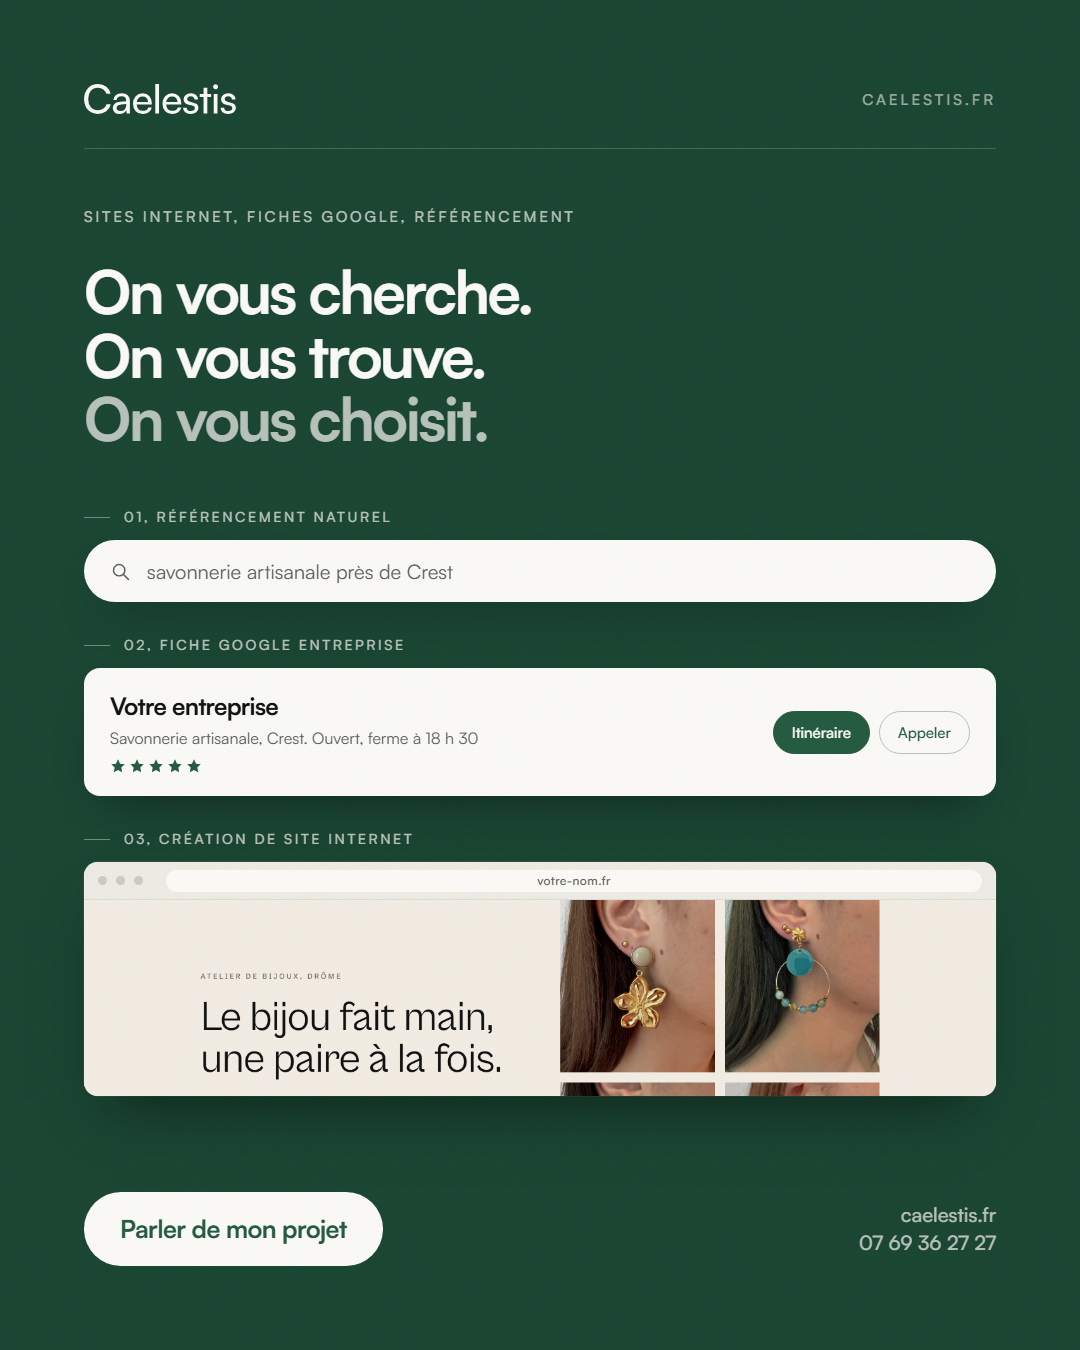
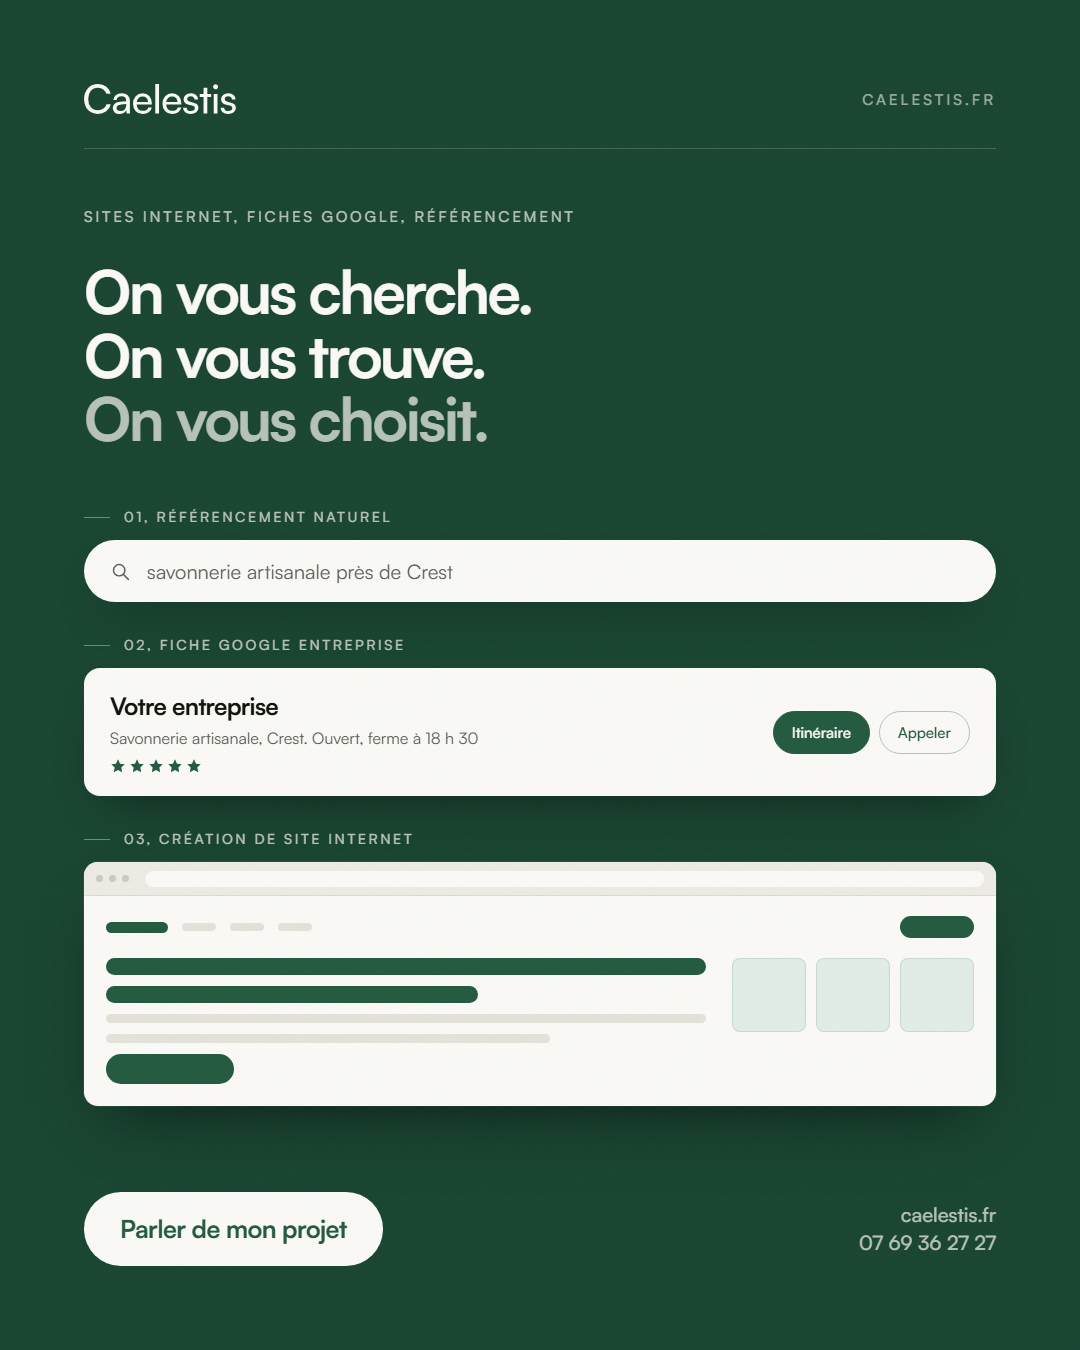
refactor: les affiches d'offre n'utilisent plus aucune capture
Les pages, fiches et resultats de recherche sont desormais dessines
avec des blocs de la charte (.maquette, .mod-fiche, .mod-serp dans
pub.css). Aucun site client n'est mis en avant, et le visuel ne
vieillit plus quand un site change.

Changed region(s): [[0.0611, 0.6533, 0.9167, 0.84]]

diff --git a/identite/reseaux/instagram/publicites/offre-3-signature.html b/identite/reseaux/instagram/publicites/offre-3-signature.html
@@ -6,36 +6,64 @@
 <link rel="stylesheet" href="pub.css">
 <style>
   .o3 { background: var(--vert-profond); }
-  .o3 h1 { font-size: 66px; }
-  .o3 .sous { margin-top: 26px; font-size: 23px; }
+  .o3 h1 { font-size: 64px; }
+  .o3 .sous { margin-top: 24px; font-size: 23px; }
 
-  .o3 .services {
-    position: absolute; top: 604px; left: var(--marge); right: var(--marge); z-index: 7;
-    display: flex; flex-wrap: wrap; gap: 12px;
+  /* trois cartes de service, chacune avec son module dessiné */
+  .o3 .cartes {
+    position: absolute; top: 594px; left: var(--marge); right: var(--marge); z-index: 6;
+    display: grid; grid-template-columns: repeat(3, 1fr); gap: 24px;
   }
-  .o3 .services span {
-    display: inline-flex; align-items: center; gap: 11px;
-    font-size: 19px; font-weight: 500; color: var(--vert);
-    background: var(--creme); border-radius: 30px; padding: 14px 24px;
-    box-shadow: 0 20px 40px -22px rgba(0, 0, 0, .5);
+  .o3 .carte-s {
+    background: var(--creme); border-radius: 20px; padding: 22px 22px 24px;
+    box-shadow: 0 36px 68px -26px rgba(0, 0, 0, .55);
+    display: flex; flex-direction: column;
   }
-  .o3 .services span i { width: 8px; height: 8px; border-radius: 50%; background: var(--vert); display: block; flex: none; }
+  .o3 .carte-s .num {
+    font-size: 12px; font-weight: 500; letter-spacing: .18em; text-transform: uppercase; color: var(--sauge-texte);
+  }
+  .o3 .carte-s .t { margin-top: 10px; font-size: 24px; font-weight: 700; letter-spacing: -0.03em; color: var(--encre); line-height: 1.15; }
+  .o3 .carte-s .d { margin-top: 8px; font-size: 15px; line-height: 1.45; color: var(--olive); }
+  .o3 .carte-s .module { margin-top: 18px; }
+  .o3 .carte-s .prix {
+    margin-top: auto; padding-top: 18px; border-top: 1px solid var(--creme-fonce);
+    font-size: 19px; font-weight: 700; letter-spacing: -0.02em; color: var(--vert);
+  }
 
-  .o3 .fenetre {
-    top: 762px; left: 118px; width: 1044px;
-    box-shadow: 0 50px 96px -26px rgba(0, 0, 0, .62), 0 0 0 1px rgba(252, 251, 248, .07);
-  }
-  .o3 .fenetre .cadre { height: 560px; overflow: hidden; }
-  .o3 .fenetre .cadre img { display: block; width: 100%; margin-top: -46px; }
+  /* module 2, la fiche */
+  .o3 .mod-fiche { background: var(--sauge-pale); border-radius: 12px; padding: 14px; }
+  .o3 .mod-fiche .nom { height: 12px; width: 66%; border-radius: 6px; background: var(--vert); }
+  .o3 .mod-fiche .ligne { height: 8px; width: 84%; border-radius: 4px; background: rgba(37, 92, 65, .22); margin-top: 9px; }
+  .o3 .mod-fiche .etoiles { display: flex; gap: 3px; margin-top: 12px; }
+  .o3 .mod-fiche .etoiles svg { width: 14px; height: 14px; fill: var(--vert); }
+  .o3 .mod-fiche .boutons { display: flex; gap: 6px; margin-top: 13px; }
+  .o3 .mod-fiche .boutons b { width: 58px; height: 22px; border-radius: 11px; background: var(--vert); display: block; }
+  .o3 .mod-fiche .boutons u { width: 46px; height: 22px; border-radius: 11px; border: 1px solid var(--sauge); display: block; }
 
-  /* carte verte : sur une capture de site crème, une carte crème se fondrait */
+  /* module 3, la recherche */
+  .o3 .mod-serp { background: var(--sauge-pale); border-radius: 12px; padding: 14px; }
+  .o3 .mod-serp .champ {
+    height: 30px; border-radius: 15px; background: var(--creme); border: 1px solid var(--sauge);
+    display: flex; align-items: center; gap: 8px; padding: 0 12px;
+  }
+  .o3 .mod-serp .champ svg { width: 13px; height: 13px; stroke: var(--olive); stroke-width: 1.8; fill: none; stroke-linecap: round; flex: none; }
+  .o3 .mod-serp .champ i { height: 7px; width: 62%; border-radius: 4px; background: var(--creme-fonce); display: block; }
+  .o3 .mod-serp .gagnant { margin-top: 12px; background: var(--creme); border-left: 3px solid var(--vert); border-radius: 0 8px 8px 0; padding: 10px 12px; }
+  .o3 .mod-serp .gagnant b { height: 10px; width: 74%; border-radius: 5px; background: var(--vert); display: block; }
+  .o3 .mod-serp .gagnant u { height: 7px; width: 90%; border-radius: 4px; background: var(--creme-fonce); display: block; margin-top: 7px; }
+  .o3 .mod-serp .autre { height: 7px; border-radius: 4px; background: rgba(37, 92, 65, .18); margin-top: 10px; }
+  .o3 .mod-serp .autre.court { width: 62%; }
+
   .o3 .appel {
-    position: absolute; bottom: 84px; left: var(--marge); z-index: 9;
-    background: var(--vert); border-radius: 20px; padding: 26px 32px;
-    box-shadow: 0 40px 74px -20px rgba(0, 0, 0, .7);
+    position: absolute; bottom: 88px; left: var(--marge); right: var(--marge); z-index: 8;
+    display: flex; align-items: center; justify-content: space-between; gap: 26px;
   }
-  .o3 .appel .t { font-size: 30px; font-weight: 700; letter-spacing: -0.028em; color: var(--creme); }
-  .o3 .appel .d { margin-top: 9px; font-size: 19px; font-weight: 500; color: var(--sauge); line-height: 1.45; }
+  .o3 .appel .bouton {
+    background: var(--creme); color: var(--vert); white-space: nowrap;
+    font-size: 27px; font-weight: 700; letter-spacing: -0.026em;
+    padding: 21px 38px; border-radius: 46px;
+  }
+  .o3 .appel .note { font-size: 20px; font-weight: 500; color: var(--sauge); text-align: right; line-height: 1.45; }
 </style>
 </head>
 <body>
@@ -53,23 +81,74 @@
     <p class="sous">Votre site, votre fiche Google, votre place dans les recherches.</p>
   </div>
 
-  <div class="services">
-    <span><i></i>Site internet</span>
-    <span><i></i>Fiche Google</span>
-    <span><i></i>Référencement naturel</span>
-  </div>
+  <div class="cartes">
 
-  <div class="fenetre">
-    <div class="barre">
-      <span class="pastille"></span><span class="pastille"></span><span class="pastille"></span>
-      <span class="url">lacoquette-bycaro.fr</span>
+    <div class="carte-s">
+      <p class="num">01</p>
+      <p class="t">Site internet</p>
+      <p class="d">Une page ou un site complet, écrit pour votre métier.</p>
+      <div class="module">
+        <div class="maquette mini" role="img" aria-label="Aperçu d'une page de site">
+          <div class="mq-barre"><i></i><i></i><i></i><span></span></div>
+          <div class="mq-corps">
+            <div class="mq-titre"></div>
+            <div class="mq-titre court"></div>
+            <div class="mq-texte"></div>
+            <div class="mq-bouton"></div>
+            <div class="mq-vignettes">
+              <div class="mq-vignette"></div>
+              <div class="mq-vignette"></div>
+            </div>
+          </div>
+        </div>
+      </div>
+      <p class="prix">dès 1 000&nbsp;€</p>
     </div>
-    <div class="cadre"><img src="../captures/client-la-coquette-desktop.png" alt="Un site livré par Caelestis"></div>
+
+    <div class="carte-s">
+      <p class="num">02</p>
+      <p class="t">Fiche Google</p>
+      <p class="d">Photos, horaires, avis. Ce qu'on voit avant votre site.</p>
+      <div class="module">
+        <div class="mod-fiche" role="img" aria-label="Aperçu d'une fiche d'établissement">
+          <div class="nom"></div>
+          <div class="ligne"></div>
+          <div class="etoiles">
+            <svg viewBox="0 0 24 24"><path d="M12 2l3 6.6 7 .9-5 4.8 1.2 7L12 18l-6.2 3.3L7 14.3 2 9.5l7-.9z"/></svg>
+            <svg viewBox="0 0 24 24"><path d="M12 2l3 6.6 7 .9-5 4.8 1.2 7L12 18l-6.2 3.3L7 14.3 2 9.5l7-.9z"/></svg>
+            <svg viewBox="0 0 24 24"><path d="M12 2l3 6.6 7 .9-5 4.8 1.2 7L12 18l-6.2 3.3L7 14.3 2 9.5l7-.9z"/></svg>
+            <svg viewBox="0 0 24 24"><path d="M12 2l3 6.6 7 .9-5 4.8 1.2 7L12 18l-6.2 3.3L7 14.3 2 9.5l7-.9z"/></svg>
+            <svg viewBox="0 0 24 24"><path d="M12 2l3 6.6 7 .9-5 4.8 1.2 7L12 18l-6.2 3.3L7 14.3 2 9.5l7-.9z"/></svg>
+          </div>
+          <div class="boutons"><b></b><u></u></div>
+        </div>
+      </div>
+      <p class="prix">300&nbsp;€</p>
+    </div>
+
+    <div class="carte-s">
+      <p class="num">03</p>
+      <p class="t">Référencement</p>
+      <p class="d">Remonter dans Google, sans payer de publicité.</p>
+      <div class="module">
+        <div class="mod-serp" role="img" aria-label="Aperçu d'une page de résultats">
+          <div class="champ">
+            <svg viewBox="0 0 24 24"><circle cx="10.5" cy="10.5" r="6.5"/><path d="M15.4 15.4L21 21"/></svg>
+            <i></i>
+          </div>
+          <div class="gagnant"><b></b><u></u></div>
+          <div class="autre"></div>
+          <div class="autre court"></div>
+        </div>
+      </div>
+      <p class="prix">compris</p>
+    </div>
+
   </div>
 
   <div class="appel">
-    <p class="t">07 69 36 27 27</p>
-    <p class="d">caelestis.fr<br>Devis gratuit, réponse sous 48&nbsp;h</p>
+    <span class="bouton">07 69 36 27 27</span>
+    <span class="note">caelestis.fr<br>Devis gratuit, réponse sous 48&nbsp;h</span>
   </div>
 
 </div>

diff --git a/identite/reseaux/instagram/publicites/pub.css b/identite/reseaux/instagram/publicites/pub.css
@@ -38,6 +38,43 @@
 }
 .badge .point { width: 9px; height: 9px; border-radius: 50%; background: var(--vert); flex: none; }
 
+/* ---------- maquette de site dessinée ----------
+   Aucune capture d'écran : la page est évoquée par des blocs, dans la charte.
+   .large pour un module pleine largeur, .mini pour une carte de service. */
+.maquette { background: var(--creme); border-radius: 14px; overflow: hidden; }
+.maquette .mq-barre {
+  height: 34px; background: #EFEDE6; border-bottom: 1px solid rgba(18, 22, 15, .08);
+  display: flex; align-items: center; gap: 6px; padding: 0 12px;
+}
+.maquette .mq-barre i { width: 7px; height: 7px; border-radius: 50%; background: #CFCCC2; display: block; }
+.maquette .mq-barre span { flex: 1; height: 16px; border-radius: 8px; background: var(--creme); margin-left: 10px; }
+
+.maquette .mq-nav { display: flex; align-items: center; gap: 14px; }
+.maquette .mq-nav b { width: 62px; height: 11px; border-radius: 6px; background: var(--vert); display: block; }
+.maquette .mq-nav u { width: 34px; height: 8px; border-radius: 4px; background: var(--creme-fonce); display: block; }
+.maquette .mq-nav u:last-child { margin-left: auto; width: 74px; height: 22px; border-radius: 11px; background: var(--vert); }
+
+.maquette .mq-titre { height: 17px; border-radius: 9px; background: var(--vert); }
+.maquette .mq-titre.court { width: 62%; }
+.maquette .mq-texte { height: 9px; border-radius: 5px; background: var(--creme-fonce); }
+.maquette .mq-texte.court { width: 74%; }
+.maquette .mq-bouton { width: 128px; height: 30px; border-radius: 15px; background: var(--vert); }
+.maquette .mq-vignette { border-radius: 8px; background: var(--sauge-pale); border: 1px solid rgba(37, 92, 65, .12); }
+
+/* pleine largeur : nav en haut, texte à gauche, vignettes à droite */
+.maquette.large .mq-corps { padding: 20px 22px 22px; }
+.maquette.large .mq-bas { display: flex; gap: 26px; margin-top: 20px; }
+.maquette.large .mq-texte-col { flex: 1; display: flex; flex-direction: column; gap: 11px; }
+.maquette.large .mq-vignettes { display: flex; gap: 10px; flex: none; }
+.maquette.large .mq-vignette { width: 74px; height: 74px; }
+
+/* compacte : tout empilé */
+.maquette.mini .mq-corps { padding: 14px 14px 16px; display: flex; flex-direction: column; gap: 9px; }
+.maquette.mini .mq-titre { height: 13px; }
+.maquette.mini .mq-bouton { width: 84px; height: 22px; border-radius: 11px; margin-top: 3px; }
+.maquette.mini .mq-vignettes { display: grid; grid-template-columns: 1fr 1fr; gap: 7px; margin-top: 4px; }
+.maquette.mini .mq-vignette { height: 42px; }
+
 /* ---------- photo de fond couverte d'un voile ---------- */
 .fond-photo { position: absolute; inset: 0; z-index: 0; overflow: hidden; }
 .fond-photo img { width: 100%; height: 100%; object-fit: cover; display: block; }

diff --git a/identite/reseaux/instagram/publicites/offre-1-parcours.html b/identite/reseaux/instagram/publicites/offre-1-parcours.html
@@ -44,16 +44,8 @@
   }
   .o1 .fiche .boutons span.plein { background: var(--vert); color: var(--creme); border-color: var(--vert); }
 
-  /* 03, le site */
-  .o1 .fenetre {
-    position: relative; top: auto; left: auto; width: 100%;
-    box-shadow: 0 30px 58px -26px rgba(0, 0, 0, .55), 0 0 0 1px rgba(252, 251, 248, .07);
-  }
-  .o1 .fenetre .barre { height: 38px; padding: 0 14px; }
-  .o1 .fenetre .pastille { width: 9px; height: 9px; }
-  .o1 .fenetre .url { height: 22px; font-size: 12px; }
-  .o1 .fenetre .cadre { height: 196px; overflow: hidden; }
-  .o1 .fenetre .cadre img { display: block; width: 100%; margin-top: -112px; }
+  /* 03, le site, dessiné et non capturé */
+  .o1 .maquette { box-shadow: 0 30px 58px -26px rgba(0, 0, 0, .55), 0 0 0 1px rgba(252, 251, 248, .07); }
 </style>
 </head>
 <body>
@@ -100,12 +92,25 @@
 
     <div class="etape">
       <p class="lab"><i></i>03, Création de site internet</p>
-      <div class="fenetre">
-        <div class="barre">
-          <span class="pastille"></span><span class="pastille"></span><span class="pastille"></span>
-          <span class="url">votre-nom.fr</span>
+      <div class="maquette large" role="img" aria-label="Aperçu d'une page de site">
+        <div class="mq-barre"><i></i><i></i><i></i><span></span></div>
+        <div class="mq-corps">
+          <div class="mq-nav"><b></b><u></u><u></u><u></u><u></u></div>
+          <div class="mq-bas">
+            <div class="mq-texte-col">
+              <div class="mq-titre"></div>
+              <div class="mq-titre court"></div>
+              <div class="mq-texte"></div>
+              <div class="mq-texte court"></div>
+              <div class="mq-bouton"></div>
+            </div>
+            <div class="mq-vignettes">
+              <div class="mq-vignette"></div>
+              <div class="mq-vignette"></div>
+              <div class="mq-vignette"></div>
+            </div>
+          </div>
         </div>
-        <div class="cadre"><img src="../captures/client-la-coquette-desktop.png" alt="Un site livré par Caelestis"></div>
       </div>
     </div>
 

diff --git a/identite/reseaux/instagram/LISEZ-MOI.md b/identite/reseaux/instagram/LISEZ-MOI.md
@@ -48,6 +48,12 @@ Les captures de `captures/` datent du 13/08/2026 et viennent de la production. P
 - le site Caelestis, une capture de `.hero-ecran .browser` sur caelestis.fr, largeur 1800, `deviceScaleFactor: 2`, en cliquant sur `.dot[data-nav="…"]` pour changer de vue ;
 - les sites clients, une capture pleine fenêtre en 1440 x 900 et une en 390 x 844 avec `isMobile`.
 
+## Règle de la série d'offre
+
+Les trois affiches d'offre (`publicites/offre-*.html`) ne montrent **aucune capture d'écran**, ni d'un site client ni du site Caelestis. Les pages, les fiches et les résultats de recherche y sont **dessinés** avec des blocs de la charte : voir `.maquette`, `.mod-fiche` et `.mod-serp` dans `publicites/pub.css`. Une capture vieillit dès que le site change, un module dessiné reste valable et ne met en avant aucun client en particulier.
+
+Quatre affiches de la série par sujet contiennent encore des captures : `pub-1` (page services), `pub-6` et `pub-7` (sites clients), `pub-9` (accueil sur téléphone).
+
 ## Règles tenues
 
 - Satoshi uniquement, auto-hébergée depuis `src/assets/fonts`, aucune police de la liste noire. Titres à -0.038em et surtitres à 0.18em, comme le prescrit `identite/CHARTE-GRAPHIQUE.md`.
